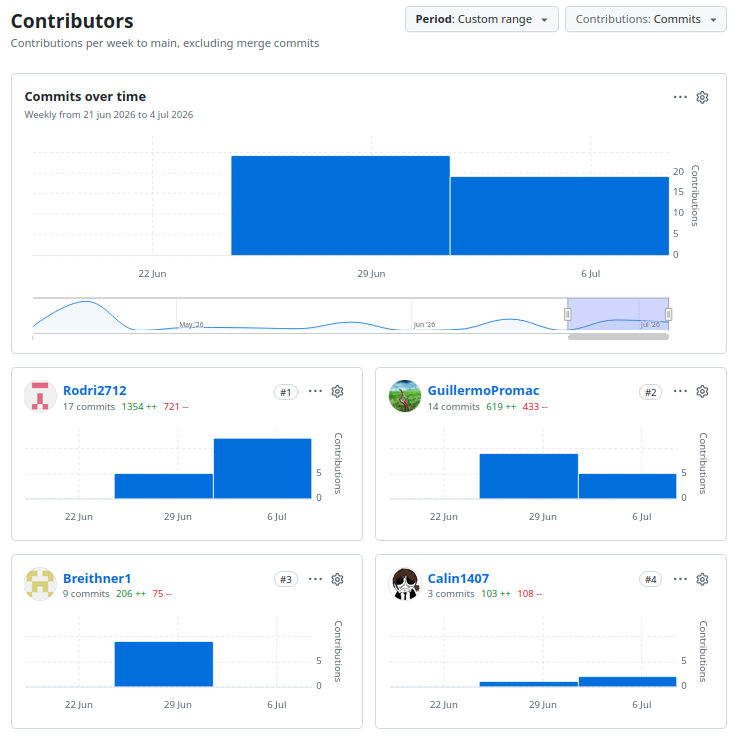
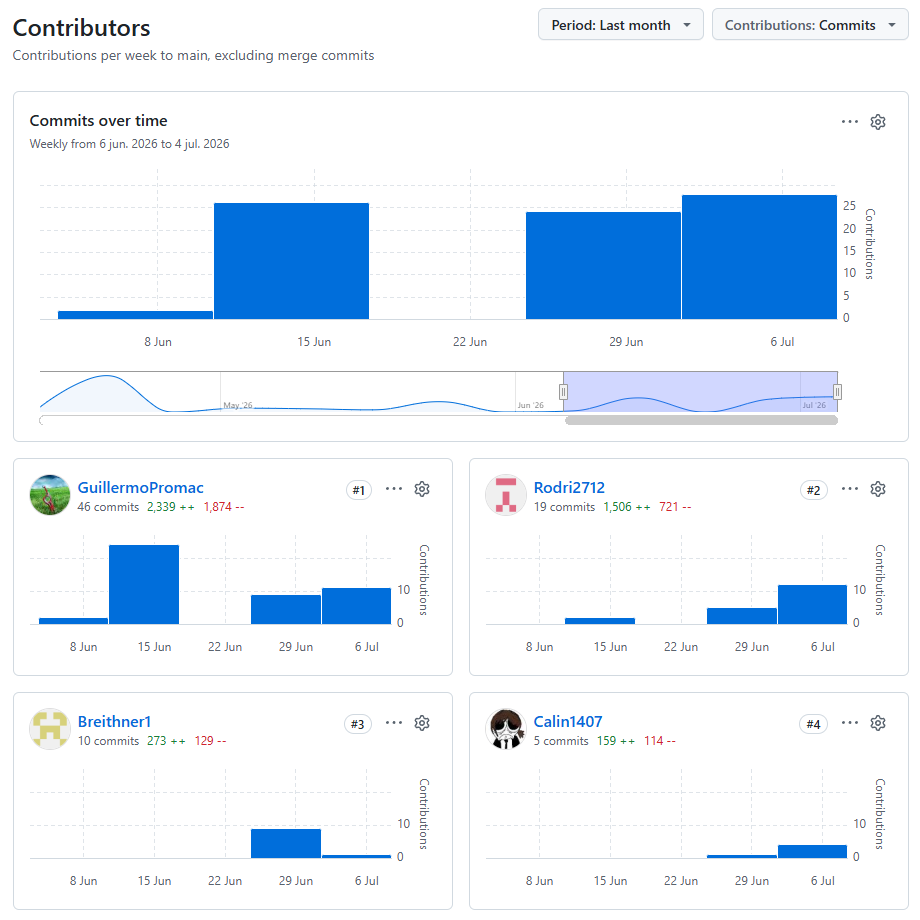
docs: add insights.

diff --git a/06-cap5-prod-implementation-validation-deployment.md b/06-cap5-prod-implementation-validation-deployment.md
@@ -978,7 +978,7 @@ Enlace del video: [https://tinyurl.com/mrxyzszz](https://tinyurl.com/mrxyzszz)
 
 #### 5.2.2.6. Services Documentation Evidence for Sprint Review
 
-La documentación de servicios se enfocó en la especificación de los endpoints de la API REST necesarios para la autenticación y la gestión de usuarios. Se utilizó Swagger/OpenAPI para generar documentación interactiva. Además, se actualizó el archivo `README.md` del repositorio backend con instrucciones para levantar el entorno local y ejecutar las migraciones de la base de datos.
+La documentación de servicios se enfocó en la especificación de los endpoints de la API REST necesarios para la autenticación y la gestión de usuarios. Se utilizó Swagger/OpenAPI para generar documentación interactiva. Además, se actualizó el archivo `README` del repositorio backend con instrucciones para levantar el entorno local y ejecutar las migraciones de la base de datos.
 
 ***Descripción del Logro:***
 
@@ -1436,7 +1436,7 @@ Monitoreo (Monitoring)
 Se añadieron consultas para obtener dispositivos por estado (ONLINE, OFFLINE, LOW_BATTERY) y campos por tipo de suelo, junto con sus respectivos endpoints en los controladores. Se actualizó el repositorio y los servicios de consulta para soportar estas nuevas funcionalidades.
 
 Documentación y configuración final
-Se actualizó el archivo README.md con una descripción general del proyecto, tecnologías, arquitectura e instrucciones de configuración.
+Se actualizó el archivo README con una descripción general del proyecto, tecnologías, arquitectura e instrucciones de configuración.
 
 | Repository                                                     | Branch                                          | Commit Id | Commit Message                                                                                                                                                                                | Commit Message Body                                                                                                                                                                                     | Commited on (Date) |
 |----------------------------------------------------------------|-------------------------------------------------|-----------|-----------------------------------------------------------------------------------------------------------------------------------------------------------------------------------------------|---------------------------------------------------------------------------------------------------------------------------------------------------------------------------------------------------------|--------------------|
@@ -1921,36 +1921,36 @@ Se ha actualizado el link del FrontEnd puesto en el Landing page por los cambios
 
 En el frontend de TerraTech se han implementado mejoras sustanciales en la compatibilidad con los endpoints del backend, corrigiendo errores críticos en el mapeo de datos de analíticas y en la creación de perfiles (bad request 400). Se ha añadido soporte para camelCase en los ensambladores de monitoreo, integrando nuevas propiedades como latitud y longitud en los formularios y listas de campos, con sus respectivas validaciones y mensajes de internacionalización. Además, se ha mejorado la gestión de comentarios en la comunidad, permitiendo la edición y eliminación con ajustes dinámicos en la puntuación de reputación, y se ha incorporado soporte multilingüe para las acciones de la comunidad. Finalmente, se ha implementado el botón de cierre de sesión en el layout y se ha integrado la validación de perfiles en el módulo comercial antes de la confirmación de pedidos.
 
-| Repository | Branch | Commit Id | Commit Message | Commit Message Body | Commited on (Date) |
-|------------|--------|-----------|----------------|---------------------|-------------------|
-| Calin1407/upc-pre-202610-1asi0730-10215-NovaTech-FrontEnd | feature/analytics-api-compatibility | 1a5b30b | fix(analytics): fix report data mapping in bounded analytics. | Se arregló un error de mapeo de los datos de analytics, permitiendo la visualización completa de los datos. | 29/06 |
-| Calin1407/upc-pre-202610-1asi0730-10215-NovaTech-FrontEnd | feature/profile-api-compability | b6a92e2 | fix(profile): fixed bad request 400 on profile creation. | Se arregló el problema de bad request en la creación de un profile. | 01/07 |
-| GuillermoPromac/upc-pre-202610-1asi0730-10215-NovaTech-FrontEnd | feature/monitoring-endpoint | 4f6b574 | feat(monitoring): update device and field entities with default values and new latitude/longitude properties. | Corrección de entities en monitoring. | 01/07 |
-| GuillermoPromac/upc-pre-202610-1asi0730-10215-NovaTech-FrontEnd | feature/monitoring-endpoint | 67b086a | feat(monitoring): add latitude and longitude fields to field form and list with validation. | Añadido de los valores latitud y longitud en el Field. | 01/07 |
-| GuillermoPromac/upc-pre-202610-1asi0730-10215-NovaTech-FrontEnd | feature/monitoring-endpoint | 6b71981 | feat(monitoring): enhance device and field classes with detailed jsdoc comments. | Añadido de documentación en los entities de monitoring. | 01/07 |
-| GuillermoPromac/upc-pre-202610-1asi0730-10215-NovaTech-FrontEnd | feature/monitoring-endpoint | 057a5b4 | feat(monitoring): update device and field assemblers to improve resource mapping and add fallback handling. | Añadido de los handing a los assemblers field y device. | 01/07 |
-| GuillermoPromac/upc-pre-202610-1asi0730-10215-NovaTech-FrontEnd | feature/monitoring-endpoint | bfca455 | refactor(monitoring): device and field api interactions to ensure proper payload structure and improve data handling. | Cambios en la interacción del .store de monitoring. | 01/07 |
-| GuillermoPromac/upc-pre-202610-1asi0730-10215-NovaTech-FrontEnd | feature/monitoring-endpoint | 2aee91a | feat(i18n): add localization for latitude and longitude fields with validation messages. | Añadido de internacionalización de los valores nuevos de latitud y longitud. | 01/07 |
-| GuillermoPromac/upc-pre-202610-1asi0730-10215-NovaTech-FrontEnd | feature/monitoring-endpoint | 457b353 | fix(monitoring): add camelcase support to device assembler. | - | 02/07 |
-| GuillermoPromac/upc-pre-202610-1asi0730-10215-NovaTech-FrontEnd | feature/monitoring-endpoint | c9a521c | refactor(monitoring): keep device form unchanged. | - | 02/07 |
-| GuillermoPromac/upc-pre-202610-1asi0730-10215-NovaTech-FrontEnd | feature/monitoring-endpoint | aeeffc2 | fix(monitoring): add camelcase support to field assembler. | - | 02/07 |
-| GuillermoPromac/upc-pre-202610-1asi0730-10215-NovaTech-FrontEnd | feature/monitoring-endpoint | c255a03 | feat(monitoring): dynamically assign profileid from iam store. | - | 02/07 |
-| GuillermoPromac/upc-pre-202610-1asi0730-10215-NovaTech-FrontEnd | feature/monitoring-endpoint | a405053 | fix(monitoring): update payloads to match backend dtos. | - | 02/07 |
-| GuillermoPromac/upc-pre-202610-1asi0730-10215-NovaTech-FrontEnd | feature/monitoring-endpoint | c096527 | fix(monitoring): update methods to use id parameter correctly. | - | 02/07 |
-| Breithner1/upc-pre-202610-1asi0730-10215-NovaTech-FrontEnd | feature/community-endpoint | 7578401 | feat(community_management): update profile and comment payload structures for consistency. | Actualizar las estructuras de carga útil de perfil y comentario para mayor coherencia | 02/07 |
-| Breithner1/upc-pre-202610-1asi0730-10215-NovaTech-FrontEnd | feature/community-endpoint | 8e82785 | feat(community_management): refactor comment assembler to improve entity mapping. | Refactorizar el ensamblador de comentarios para mejorar el mapeo de entidades. | 02/07 |
-| Breithner1/upc-pre-202610-1asi0730-10215-NovaTech-FrontEnd | feature/community-endpoint | cf0e4dc | feat(community_management): update resource naming and enhance comment retrieval method. | Actualizar la nomenclatura de recursos y mejorar el método de recuperación de comentarios. | 02/07 |
-| Breithner1/upc-pre-202610-1asi0730-10215-NovaTech-FrontEnd | feature/community-endpoint | 24ba7ef | feat(community_management): enhance community profile entity mapping and simplify response handling. | mejora la asignación de entidades de perfil de comunidad y simplifica el manejo de respuestas. | 02/07 |
-| Breithner1/upc-pre-202610-1asi0730-10215-NovaTech-FrontEnd | feature/community-endpoint | 75a5873 | feat(community_management): update profile_id type and ensure correct parsing of route parameter. | actualiza el tipo profile_id y garantiza el análisis correcto del parámetro de ruta. | 02/07 |
-| Breithner1/upc-pre-202610-1asi0730-10215-NovaTech-FrontEnd | feature/community-endpoint | 329b2c3 | feat(community_management): ensure correct parsing of profile id and update author profile id type. | Garantiza el análisis correcto del ID de perfil y actualiza el tipo de ID de perfil de autor | 02/07 |
+| Repository | Branch | Commit Id | Commit Message | Commit Message Body                                                                                          | Commited on (Date) |
+|------------|--------|-----------|----------------|--------------------------------------------------------------------------------------------------------------|-------------------|
+| Calin1407/upc-pre-202610-1asi0730-10215-NovaTech-FrontEnd | feature/analytics-api-compatibility | 1a5b30b | fix(analytics): fix report data mapping in bounded analytics. | Se arregló un error de mapeo de los datos de analytics, permitiendo la visualización completa de los datos.  | 29/06 |
+| Calin1407/upc-pre-202610-1asi0730-10215-NovaTech-FrontEnd | feature/profile-api-compability | b6a92e2 | fix(profile): fixed bad request 400 on profile creation. | Se arregló el problema de bad request en la creación de un profile.                                          | 01/07 |
+| GuillermoPromac/upc-pre-202610-1asi0730-10215-NovaTech-FrontEnd | feature/monitoring-endpoint | 4f6b574 | feat(monitoring): update device and field entities with default values and new latitude/longitude properties. | Corrección de entities en monitoring.                                                                        | 01/07 |
+| GuillermoPromac/upc-pre-202610-1asi0730-10215-NovaTech-FrontEnd | feature/monitoring-endpoint | 67b086a | feat(monitoring): add latitude and longitude fields to field form and list with validation. | Añadido de los valores latitud y longitud en el Field.                                                       | 01/07 |
+| GuillermoPromac/upc-pre-202610-1asi0730-10215-NovaTech-FrontEnd | feature/monitoring-endpoint | 6b71981 | feat(monitoring): enhance device and field classes with detailed jsdoc comments. | Añadido de documentación en los entities de monitoring.                                                      | 01/07 |
+| GuillermoPromac/upc-pre-202610-1asi0730-10215-NovaTech-FrontEnd | feature/monitoring-endpoint | 057a5b4 | feat(monitoring): update device and field assemblers to improve resource mapping and add fallback handling. | Añadido de los handing a los assemblers field y device.                                                      | 01/07 |
+| GuillermoPromac/upc-pre-202610-1asi0730-10215-NovaTech-FrontEnd | feature/monitoring-endpoint | bfca455 | refactor(monitoring): device and field api interactions to ensure proper payload structure and improve data handling. | Cambios en la interacción del .store de monitoring.                                                          | 01/07 |
+| GuillermoPromac/upc-pre-202610-1asi0730-10215-NovaTech-FrontEnd | feature/monitoring-endpoint | 2aee91a | feat(i18n): add localization for latitude and longitude fields with validation messages. | Añadido de internacionalización de los valores nuevos de latitud y longitud.                                 | 01/07 |
+| GuillermoPromac/upc-pre-202610-1asi0730-10215-NovaTech-FrontEnd | feature/monitoring-endpoint | 457b353 | fix(monitoring): add camelcase support to device assembler. | Agregar soporte para camel case al ensamblador del dispositivo.                                                                                                            | 02/07 |
+| GuillermoPromac/upc-pre-202610-1asi0730-10215-NovaTech-FrontEnd | feature/monitoring-endpoint | c9a521c | refactor(monitoring): keep device form unchanged. | Mantener la forma del dispositivo sin cambios.                                                                                                            | 02/07 |
+| GuillermoPromac/upc-pre-202610-1asi0730-10215-NovaTech-FrontEnd | feature/monitoring-endpoint | aeeffc2 | fix(monitoring): add camelcase support to field assembler. | Agregar soporte para camel case al ensamblador de campo.                                                                                                            | 02/07 |
+| GuillermoPromac/upc-pre-202610-1asi0730-10215-NovaTech-FrontEnd | feature/monitoring-endpoint | c255a03 | feat(monitoring): dynamically assign profileid from iam store. | Asignar dinámicamente el ID de perfil desde el almacén iam.                                                  | 02/07 |
+| GuillermoPromac/upc-pre-202610-1asi0730-10215-NovaTech-FrontEnd | feature/monitoring-endpoint | a405053 | fix(monitoring): update payloads to match backend dtos. | Actualizar las cargas útiles para que coincidan con los DTO del backend.                                     | 02/07 |
+| GuillermoPromac/upc-pre-202610-1asi0730-10215-NovaTech-FrontEnd | feature/monitoring-endpoint | c096527 | fix(monitoring): update methods to use id parameter correctly. | Actualizar el metodo de obtención de id                                                                      | 02/07 |
+| Breithner1/upc-pre-202610-1asi0730-10215-NovaTech-FrontEnd | feature/community-endpoint | 7578401 | feat(community_management): update profile and comment payload structures for consistency. | Actualizar las estructuras de carga útil de perfil y comentario para mayor coherencia                        | 02/07 |
+| Breithner1/upc-pre-202610-1asi0730-10215-NovaTech-FrontEnd | feature/community-endpoint | 8e82785 | feat(community_management): refactor comment assembler to improve entity mapping. | Refactorizar el ensamblador de comentarios para mejorar el mapeo de entidades.                               | 02/07 |
+| Breithner1/upc-pre-202610-1asi0730-10215-NovaTech-FrontEnd | feature/community-endpoint | cf0e4dc | feat(community_management): update resource naming and enhance comment retrieval method. | Actualizar la nomenclatura de recursos y mejorar el método de recuperación de comentarios.                   | 02/07 |
+| Breithner1/upc-pre-202610-1asi0730-10215-NovaTech-FrontEnd | feature/community-endpoint | 24ba7ef | feat(community_management): enhance community profile entity mapping and simplify response handling. | mejora la asignación de entidades de perfil de comunidad y simplifica el manejo de respuestas.               | 02/07 |
+| Breithner1/upc-pre-202610-1asi0730-10215-NovaTech-FrontEnd | feature/community-endpoint | 75a5873 | feat(community_management): update profile_id type and ensure correct parsing of route parameter. | actualiza el tipo profile_id y garantiza el análisis correcto del parámetro de ruta.                         | 02/07 |
+| Breithner1/upc-pre-202610-1asi0730-10215-NovaTech-FrontEnd | feature/community-endpoint | 329b2c3 | feat(community_management): ensure correct parsing of profile id and update author profile id type. | Garantiza el análisis correcto del ID de perfil y actualiza el tipo de ID de perfil de autor                 | 02/07 |
 | Breithner1/upc-pre-202610-1asi0730-10215-NovaTech-FrontEnd | feature/community-endpoint | 02a7c32 | feat(community_management): add comment update and delete functionality, improve target profile ID handling. | Agrega funcionalidad para actualizar y eliminar comentarios, y mejora el manejo del ID de perfil de destino. | 05/07 |
-| Breithner1/upc-pre-202610-1asi0730-10215-NovaTech-FrontEnd | feature/community-endpoint | bcad6a3 | feat(community_management): add update and delete functionality for comments. | Agrega funcionalidad para actualizar y eliminar comentarios. | 05/07 |
-| Breithner1/upc-pre-202610-1asi0730-10215-NovaTech-FrontEnd | feature/community-endpoint | a5aa1cb | feat(community_management): enhance community profile form with profile ID handling and validation. | Mejora el formulario de perfil de comunidad con manejo y validación del ID de perfil. | 05/07 |
-| Breithner1/upc-pre-202610-1asi0730-10215-NovaTech-FrontEnd | feature/community-endpoint | 5634fe8 | feat(community_management): enhance community profile list with visibility filtering and profile ID checks. | Mejora la lista de perfiles de comunidad con filtrado de visibilidad y comprobaciones de ID de perfil. | 06/07 |
-| Breithner1/upc-pre-202610-1asi0730-10215-NovaTech-FrontEnd | feature/community-endpoint | 109adc6 | feat(community_management): implement comment editing and deletion with reputation score adjustments. | Implementa la edición y eliminación de comentarios con ajustes de puntuación de reputación. | 06/07 |
-| Breithner1/upc-pre-202610-1asi0730-10215-NovaTech-FrontEnd | feature/community-endpoint | 0394af1 | feat(community_management): add multilingual support for community actions and notifications. | Agrega soporte multilingüe para acciones y notificaciones de la comunidad. | 06/07 |
-| Calin1407/upc-pre-202610-1asi0730-10215-NovaTech-FrontEnd | feature/implements-log-out | 99dd0b6 | feature(layout): implements log out button into layout. | Implementación de botón para terminar la sesión del usuario. | 06/07 |
-| Breithner1/upc-pre-202610-1asi0730-10215-NovaTech-FrontEnd | feature/commercial-order-endpoint | 6b7a3fa | feat(commercial): integrate profile validation before order confirmation. | integrar la validación del perfil antes de la confirmación del pedido. | 06/07 |
+| Breithner1/upc-pre-202610-1asi0730-10215-NovaTech-FrontEnd | feature/community-endpoint | bcad6a3 | feat(community_management): add update and delete functionality for comments. | Agrega funcionalidad para actualizar y eliminar comentarios.                                                 | 05/07 |
+| Breithner1/upc-pre-202610-1asi0730-10215-NovaTech-FrontEnd | feature/community-endpoint | a5aa1cb | feat(community_management): enhance community profile form with profile ID handling and validation. | Mejora el formulario de perfil de comunidad con manejo y validación del ID de perfil.                        | 05/07 |
+| Breithner1/upc-pre-202610-1asi0730-10215-NovaTech-FrontEnd | feature/community-endpoint | 5634fe8 | feat(community_management): enhance community profile list with visibility filtering and profile ID checks. | Mejora la lista de perfiles de comunidad con filtrado de visibilidad y comprobaciones de ID de perfil.       | 06/07 |
+| Breithner1/upc-pre-202610-1asi0730-10215-NovaTech-FrontEnd | feature/community-endpoint | 109adc6 | feat(community_management): implement comment editing and deletion with reputation score adjustments. | Implementa la edición y eliminación de comentarios con ajustes de puntuación de reputación.                  | 06/07 |
+| Breithner1/upc-pre-202610-1asi0730-10215-NovaTech-FrontEnd | feature/community-endpoint | 0394af1 | feat(community_management): add multilingual support for community actions and notifications. | Agrega soporte multilingüe para acciones y notificaciones de la comunidad.                                   | 06/07 |
+| Calin1407/upc-pre-202610-1asi0730-10215-NovaTech-FrontEnd | feature/implements-log-out | 99dd0b6 | feature(layout): implements log out button into layout. | Implementación de botón para terminar la sesión del usuario.                                                 | 06/07 |
+| Breithner1/upc-pre-202610-1asi0730-10215-NovaTech-FrontEnd | feature/commercial-order-endpoint | 6b7a3fa | feat(commercial): integrate profile validation before order confirmation. | integrar la validación del perfil antes de la confirmación del pedido.                                       | 06/07 |
 
 ---
 
@@ -2190,7 +2190,7 @@ Siguiendo las indicaciones establecidas para el proceso de validación, cada ent
 
 ***Objetivo General***
 
-Validar la experiencia de uso del Landing Page y la Web Application de TerraTech mediante sesiones de interacción con usuarios representativos de cada segmento objetivo, verificando la comprensión de la propuesta de valor, la ejecución de los principales flujos de usuario y la percepción general sobre la utilidad de la solución.
+Validar la experiencia de uso de la Landing Page y la Web Application de TerraTech mediante sesiones de interacción con usuarios representativos de cada segmento objetivo, verificando la comprensión de la propuesta de valor, la ejecución de los principales flujos de usuario y la percepción general sobre la utilidad de la solución.
 
 ---
 
@@ -2320,7 +2320,7 @@ Alvaro Medina Huaqui indicó que la navegación por el Landing Page es clara y q
 **Nombre:** Myke Dylan Guillen Geraldo
 **Edad:** 22 años  
 **Distrito:** Huaraz  
-**Timing:**
+**Timing:** 
 
 <img src="assets/images/cap5/Entrevista_Validacion_Segmento3-1.png" alt="cap5" style="height: 500px !important; width: 700px !important;">
 

diff --git a/README.md b/README.md
@@ -130,7 +130,7 @@ Esta sección detalla cómo el equipo colaboró para construir el **Final Projec
 
 <img src="assets/images/readme/Report-Ins.png" alt="Descargar" width="700" height="700">
 
-- **Total de commits:** 136
+- **Total de commits:** 191
 - **Autores contribuyentes:**
     - Luis Acuña (`L2006delacruz`)
     - Rodrigo Aguilar (`Rodri2712`)
@@ -205,10 +205,10 @@ En el informe se documentó el trabajo realizado durante el **Sprint 4** e inclu
     - Correcciones de la carátula y reporte del informe.
     - Registro del trabajo realizado en el Sprint 4, incluyendo backlog, implementación de servicios y despliegue. 
 
-- **Rodrigo Aguilar (`Rodri2712`)**: 17 commits, 1354 adicciones, 721 eliminaciones
-- **Guillermo Howard (`GuillermoPromac`)**: 14 commits, 619 adicciones, 433 eliminaciones
-- **Breithner Pérez (`Breithner1`)**: 9 commits, 206 adicciones, 75 eliminaciones
-- **Jorge Retuerto (`Calin1407`)**: 3 commits, 103 adicciones, 108 eliminaciones
+- **Rodrigo Aguilar (`Rodri2712`)**: 19 commits, 1506 adicciones, 721 eliminaciones
+- **Guillermo Howard (`GuillermoPromac`)**: 46 commits, 2339 adicciones, 1874 eliminaciones
+- **Breithner Pérez (`Breithner1`)**: 10 commits, 273 adicciones, 129 eliminaciones
+- **Jorge Retuerto (`Calin1407`)**: 5 commits, 159 adicciones, 114 eliminaciones
 - **Total de commits en AV1:** 43
     
 <div style="page-break-after: always;"></div>

diff --git a/09-annexes.md b/09-annexes.md
@@ -92,3 +92,10 @@ Duración: 00:00 - 17:26
 
 <img src="assets/images/annexes/expo-av2.png" alt=“Descargar” >
 
+***TB02***
+
+Link del video del TB02: [https://tinyurl.com/ysrkfwrd](https://tinyurl.com/ysrkfwrd)
+
+Duración: 00:00 - 12:22
+
+<img src="assets/images/annexes/expo-tb2.png" alt=“Descargar” >